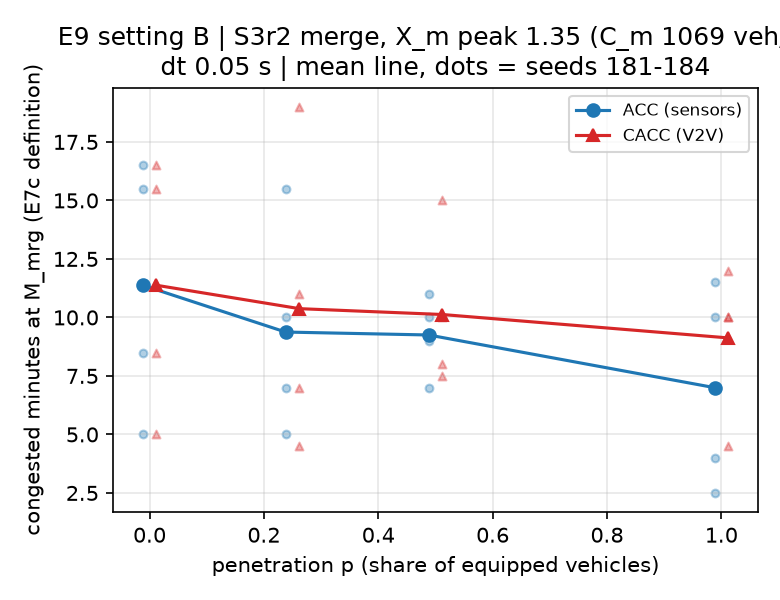
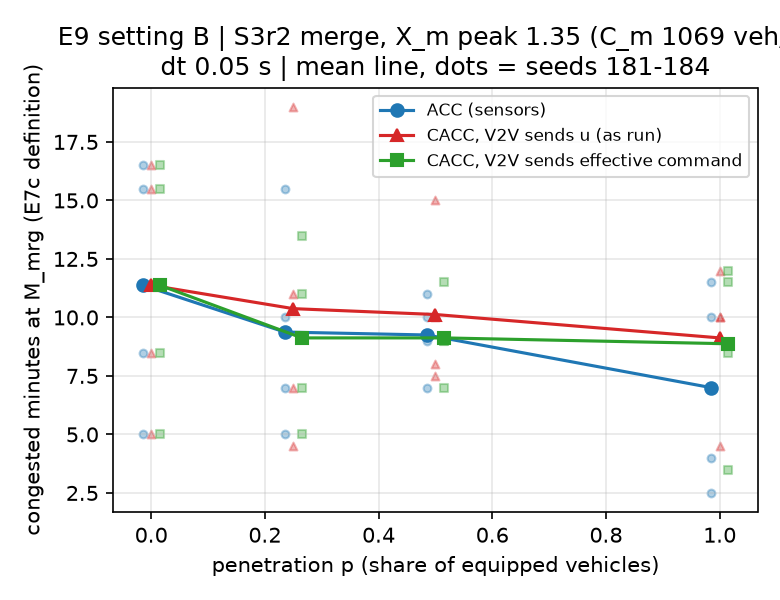
cav: broadcast = effective (V2V sends min(u, applied)); E9e X 1.35 cacc_eff result and a_l diagnostic

diff --git a/src/tmc/setting_b.py b/src/tmc/setting_b.py
@@ -3,7 +3,10 @@
     python -m tmc.setting_b --quick          # small example: X 1.35, seed 181, human vs ACC p = 1 (~2 runs)
     python -m tmc.setting_b --dtcheck        # D3: human and ACC p = 1 at dt 0.05 vs 0.1 (X 1.35, seed 181)
     python -m tmc.setting_b --run 1.35       # every case at one X_peak, seeds 181-184 (appends to E9B_runs.csv)
+    python -m tmc.setting_b --run 1.20 --with-eff   # ... plus CACC with the effective-command broadcast
+    python -m tmc.setting_b --run-eff 1.35   # only the effective-broadcast CACC cases (mode "cacc_eff")
     python -m tmc.setting_b --holdout 1.35 acc 1.0   # one case + the human baseline on held-out seeds 185-188
+    python -m tmc.setting_b --holdout 1.35 all       # every case on the held-out seeds
     python -m tmc.setting_b --judge          # judgement + figures from results/E9B_runs.csv (no simulation)
     dt is 0.05 s for all of setting B (D3 failed on S3r); --dt X overrides it for diagnostics only
 
@@ -49,6 +52,9 @@ HOLDOUT = [185, 186, 187, 188]
 X_PEAKS = [1.35, 1.20]                      # D5 order: 1.35 first
 PENETRATIONS = [0.25, 0.5, 1.0]
 CASES = [("human", 0.0)] + [(m, p) for p in PENETRATIONS for m in ("acc", "cacc")]
+# CACC with the effective-command broadcast (team decision 2026-11-25 after the X 1.35 as-run result, E9e);
+# the as-run "cacc" rows (broadcast = command) are kept and reported.
+EFF_CASES = [("cacc_eff", p) for p in PENETRATIONS]
 TAU_S, DELAY_S = 0.1, 0.15                  # nominal (design record section 7); tau = 0.5 s cut (E9e D5)
 BETTER_PCT, SEEDS_NEEDED = 2.0, 3           # E7c "better" rule
 THROUGHPUT_PCT = 2.0
@@ -67,7 +73,7 @@ def merge_capacity_s3r(share: float = RAMP_SHARE) -> float:
 
 
 def build_config(x_peak: float, seed: int, c_m: float, mode: str = "human", p: float = 0.0,
-                 dt: float = DT_B) -> ScenarioConfig:
+                 dt: float = DT_B, broadcast: str = "command") -> ScenarioConfig:
     cfg = ScenarioConfig.from_yaml(S3R)
     cfg.seed = seed
     cfg.ramp.seed = None
@@ -79,6 +85,8 @@ def build_config(x_peak: float, seed: int, c_m: float, mode: str = "human", p: f
     cfg.control = None
     cfg.cav = None if mode == "human" else {"p_equipped": p, "mode": mode, "placement_seed": seed,
                                             "tau_s": TAU_S, "delay_s": DELAY_S}
+    if mode == "cacc" and broadcast != "command":
+        cfg.cav["broadcast"] = broadcast
     cfg.scenario_id = f"E9B_Xp{x_peak:.2f}_{mode}_p{p:.2f}"
     cfg.demand_id = f"D9B_Xp{x_peak:.2f}_r{RAMP_SHARE:.2f}_Cm{c_m:.0f}"
     return cfg
@@ -99,8 +107,11 @@ def merge_discharge(obs: pd.DataFrame, cong_mrg: pd.DataFrame) -> float:
 
 
 def run_case(args) -> dict:
-    x_peak, mode, p, seed, c_m, dt = args
-    cfg = build_config(x_peak, seed, c_m, mode, p, dt)
+    x_peak, mode, p, seed, c_m, dt, *rest = args
+    broadcast = rest[0] if rest else "command"
+    if mode == "cacc_eff":                          # CACC with broadcast = 'effective' (E9e, 2026-11-25)
+        mode, broadcast = "cacc", "effective"
+    cfg = build_config(x_peak, seed, c_m, mode, p, dt, broadcast)
     prm = load_params(cfg.param_set)
     cap = capacity(prm)
     v_c, occ_c = cap["v_c_mps"], critical_occupancy(cap, prm)
@@ -114,7 +125,8 @@ def run_case(args) -> dict:
     speeds = {d: o.loc[o["sensor_id"] == d, "mean_speed_mps"].dropna() for d in ("M_up", "M_mrg")}
     ev = res.cav_events
     row = {
-        "x_peak": x_peak, "mode": mode, "p": p, "seed": seed, "dt_s": dt, "c_m_vph": c_m,
+        "x_peak": x_peak, "mode": "cacc_eff" if broadcast == "effective" else mode, "p": p, "seed": seed,
+        "dt_s": dt, "c_m_vph": c_m, "broadcast": broadcast if mode == "cacc" else "",
         "n_vehicles": int(len(v)), "n_equipped": int(v["equipped"].sum()),
         "ttt_veh_h": s["total_travel_time_veh_h"],
         "ttt_main_origin_veh_h": s["total_travel_time_mainline_origin_veh_h"],
@@ -166,10 +178,10 @@ def better(df: pd.DataFrame, a: tuple, b: tuple) -> dict:
             "n_seeds_lower": n_lower, "better": bool(pct <= -BETTER_PCT and n_lower >= SEEDS_NEEDED)}
 
 
-def d1_reduced(df: pd.DataFrame, p: float) -> dict:
+def d1_reduced(df: pd.DataFrame, p: float, mode: str = "cacc") -> dict:
     """E9e D1: CACC congested minutes at M_mrg vs the same-seed human AND ACC run."""
-    h = _paired(df, ("cacc", p), ("human", 0.0), "congested_min_M_mrg")
-    a = _paired(df, ("cacc", p), ("acc", p), "congested_min_M_mrg")
+    h = _paired(df, (mode, p), ("human", 0.0), "congested_min_M_mrg")
+    a = _paired(df, (mode, p), ("acc", p), "congested_min_M_mrg")
     ok = []
     for seed in h.index.intersection(a.index):
         c = h.loc[seed, "a"]
@@ -206,7 +218,7 @@ def judge(df: pd.DataFrame) -> pd.DataFrame:
     for (x, dt), g in df.groupby(["x_peak", "dt_s"]):
         hum = g[g["mode"] == "human"]
         served_h = hum["served_600_2100_vph"].mean()
-        for mode, p in CASES[1:]:
+        for mode, p in CASES[1:] + EFF_CASES:
             c = g[(g["mode"] == mode) & np.isclose(g["p"], p)]
             if c.empty:
                 continue
@@ -220,12 +232,12 @@ def judge(df: pd.DataFrame) -> pd.DataFrame:
             row["congested_min_M_mrg_human"] = hum["congested_min_M_mrg"].mean()
             row["merge_discharge_vph"] = c["merge_discharge_vph"].mean()
             row["merge_discharge_human_vph"] = hum["merge_discharge_vph"].mean()
-            if mode == "cacc":
-                va = better(g, ("cacc", p), ("acc", p))
-                vr = better(g, ("acc", p), ("cacc", p))
+            if mode in ("cacc", "cacc_eff"):
+                va = better(g, (mode, p), ("acc", p))
+                vr = better(g, ("acc", p), (mode, p))
                 row.update({"ttt_vs_acc_pct": va.get("ttt_pct"), "seeds_lower_than_acc": va.get("n_seeds_lower"),
                             "cacc_better_than_acc": va.get("better"), "acc_better_than_cacc": vr.get("better")})
-                row.update(d1_reduced(g, p))
+                row.update(d1_reduced(g, p, mode))
             row.update(gaps_ok(g, mode, p))
             out.append(row)
     return pd.DataFrame(out)
@@ -238,7 +250,8 @@ def plot(df: pd.DataFrame) -> list[Path]:
     matplotlib.use("Agg")
     import matplotlib.pyplot as plt
     paths = []
-    style = {"acc": ("ACC (sensors)", "#1f77b4", "o"), "cacc": ("CACC (V2V)", "#d62728", "^")}
+    style = {"acc": ("ACC (sensors)", "#1f77b4", "o"), "cacc": ("CACC, V2V sends u (as run)", "#d62728", "^"),
+             "cacc_eff": ("CACC, V2V sends effective command", "#2ca02c", "s")}
     for col, ylab, name in [("ttt_veh_h", "total travel time (veh*h, incl. ramp wait)", "E9B_ttt_vs_p.png"),
                             ("congested_min_M_mrg", "congested minutes at M_mrg (E7c definition)",
                              "E9B_congestion_vs_p.png")]:
@@ -250,7 +263,7 @@ def plot(df: pd.DataFrame) -> list[Path]:
             for mode, (lab, color, mk) in style.items():
                 pts = [(0.0, h)] + [(p, g[(g["mode"] == mode) & np.isclose(g["p"], p)][col]) for p in PENETRATIONS]
                 pts = [(p, s) for p, s in pts if len(s)]
-                off = -0.012 if mode == "acc" else 0.012
+                off = {"acc": -0.015, "cacc": 0.0, "cacc_eff": 0.015}[mode]
                 for p, s in pts:
                     ax.scatter(np.full(len(s), p + off), s, color=color, alpha=0.35, s=14, marker=mk)
                 ax.plot([p + off for p, _ in pts], [s.mean() for _, s in pts], color=color, marker=mk, label=lab)
@@ -318,11 +331,19 @@ def main(argv: list[str]) -> None:
         return
     if "--run" in argv:
         x = float(argv[argv.index("--run") + 1])
-        df = _append(sweep(jobs_for(x, SEEDS, c_m, dt)), RUNS_CSV)
+        cases = CASES + EFF_CASES if "--with-eff" in argv else CASES
+        df = _append(sweep(jobs_for(x, SEEDS, c_m, dt, cases)), RUNS_CSV)
+    elif "--run-eff" in argv:
+        x = float(argv[argv.index("--run-eff") + 1])
+        df = _append(sweep(jobs_for(x, SEEDS, c_m, dt, EFF_CASES)), RUNS_CSV)
     elif "--holdout" in argv:
         i = argv.index("--holdout")
-        x, mode, p = float(argv[i + 1]), argv[i + 2], float(argv[i + 3])
-        cases = [("human", 0.0), (mode, p)] + ([("acc", p)] if mode == "cacc" else [])
+        x, mode = float(argv[i + 1]), argv[i + 2]
+        if mode == "all":                       # every case incl. cacc_eff (confirms all wins at once)
+            cases = CASES + EFF_CASES
+        else:
+            p = float(argv[i + 3])
+            cases = [("human", 0.0), (mode, p)] + ([("acc", p)] if mode in ("cacc", "cacc_eff") else [])
         hd = sweep(jobs_for(x, HOLDOUT, c_m, dt, cases))
         path = RES / "E9B_holdout_runs.csv"
         hd = _append(hd, path)
@@ -332,7 +353,7 @@ def main(argv: list[str]) -> None:
         return
     else:
         df = pd.read_csv(RUNS_CSV)
-    if "--judge" in argv or "--run" in argv:
+    if "--judge" in argv or "--run" in argv or "--run-eff" in argv:
         jd = judge(df)
         jd.to_csv(RES / "E9B_judgement.csv", index=False)
         print(jd.round(3).T.to_string())

diff --git a/src/tmc/network.py b/src/tmc/network.py
@@ -627,6 +627,9 @@ class FreewaySegment:
         """cav config keys: p_equipped (0-1), mode ('acc' | 'cacc'), placement_seed, tau_s (0.1),
         delay_s (0.15), loss_prob (0), loss_seed, outages ([[start_s, end_s], ...]), comms (True),
         max_age_ticks (5; null = no age limit, the E9 mechanism check with fallback disabled),
+        broadcast ('command' = the controller's car-following command u, E9c and E9e as run | 'effective' =
+        min(u, the other demands applied on top: lane end, gap seeking, courtesy, yielding), team decision
+        2026-11-25, E9e; identical to 'command' when no other demand binds, e.g. everywhere in setting A),
         controller ('eq1126' = the E9 ACC/CACC of tmc.cav, default | 'ploeg' = tmc.ploeg, E9d, setting A only)
         with, for 'ploeg': ff ('none' | 'sensor' | 'v2v'), spacing ('ctg' | 'idm'), h_s (1.0), r_m (2.0).
         For 'ploeg' the V2V channel exists iff ff = 'v2v'; mode is ignored.
@@ -653,6 +656,9 @@ class FreewaySegment:
             raise ValueError(f"cav.controller must be 'eq1126' or 'ploeg', got {self.cav_controller!r}")
         if self.cav_mode not in ("acc", "cacc"):
             raise ValueError(f"cav.mode must be 'acc' or 'cacc', got {self.cav_mode!r}")
+        self.cav_broadcast = str(c.get("broadcast", "command"))
+        if self.cav_broadcast not in ("command", "effective"):
+            raise ValueError(f"cav.broadcast must be 'command' or 'effective', got {self.cav_broadcast!r}")
         self.cav_tau = float(c.get("tau_s", 0.1))
         self.cav_max_age = c.get("max_age_ticks", 5)
         spt = int(round(TICK_S / self.cfg.dt_s))
@@ -698,6 +704,24 @@ class FreewaySegment:
                                   bool(self.equipped[leader]) if leader is not None else False)
                 if self.channel is not None:
                     self.channel.send(vid, tick, out["u"])
+
+    def _amend_broadcasts(self, tick: int, accs, acc_r) -> None:
+        """broadcast = 'effective' (E9e): once this tick's applied accelerations are known, an equipped
+        vehicle whose applied acceleration is below its realized controller output (another demand bound
+        it: lane end, gap seeking, courtesy, yielding) amends this tick's message to min(u, applied), the
+        acceleration it is actually commanded to follow. With delay >= 1 tick no follower has used the
+        message yet. (A 0-tick delay would see the unamended u; it is used only in setting A, where no
+        other demand exists.)"""
+        for ln, acc in [*zip(self.lanes, accs), (self.rlane, acc_r)]:
+            for i, vid in enumerate(ln.ids):
+                vid = int(vid)
+                ctl = self.ctl.get(vid)
+                a_r = self._a_real.get(vid)
+                if ctl is None or a_r is None or not acc[i] < a_r - 1e-12:
+                    continue
+                u_eff = min(float(ctl.u), float(acc[i]))
+                if u_eff < ctl.u:
+                    self.channel.amend(vid, tick, u_eff)
 
     def _cav_actuate(self, dt: float) -> None:
         """Advance every on-road controller's actuator lag by one step (realized accelerations)."""
@@ -937,6 +961,9 @@ class FreewaySegment:
                 if g <= 0:
                     raise RuntimeError(f"collision/overlap at t={t:.2f}s (min gap {g:.3f} m)")
             self._track_gaps(accs, acc_r, gaps, s_r)
+            if self._cav_on and self.channel is not None and self.cav_broadcast == "effective" \
+                    and k % self._spt == 0:
+                self._amend_broadcasts(k // self._spt, accs, acc_r)
             # 4) record state at t
             if k % rec_every == 0:
                 for lane_id, ln, acc in [*((i, ln, a) for i, (ln, a) in enumerate(zip(self.lanes, accs))),

diff --git a/tests/test_cav_integration.py b/tests/test_cav_integration.py
@@ -160,3 +160,58 @@ def test_time_step_sensitivity_with_cavs(mode):
 def test_dt_must_divide_tick():
     with pytest.raises(ValueError):
         run_platoon(dict(S, duration_s=1.0), NOM, 0.0, dt=0.2, cav=cav(1.0))
+
+
+# --------------------------------------------------------------------------- broadcast = 'effective' (E9e, 2026-11-25)
+
+def test_effective_broadcast_is_identical_in_setting_a():
+    """No lane-end / courtesy / gap-seeking demand in setting A, so nothing is ever amended."""
+    for p_eq in (0.5, 1.0):
+        a, _ = run_platoon(S, NOM, T_R, cav=cav(p_eq, "cacc"))
+        b, _ = run_platoon(S, NOM, T_R, cav=cav(p_eq, "cacc", broadcast="effective"))
+        assert np.array_equal(traj(a), traj(b))
+
+
+def test_channel_amend_replaces_only_this_ticks_message():
+    ch = cavmod.V2VChannel(delay_s=0.15)
+    ch.send(7, 10, 1.0)
+    assert not ch.amend(7, 9, -3.0)                    # not the newest tick
+    assert ch.amend(7, 10, -2.0)
+    assert ch.latest(7, 12, 0) == (-2.0, 10)
+    lossy = cavmod.V2VChannel(delay_s=0.15, outages=[(0.0, 10.0)])
+    lossy.send(7, 10, 1.0)                              # lost in the outage
+    assert not lossy.amend(7, 10, -2.0) and lossy.latest(7, 12, 0) is None
+
+
+def test_effective_broadcast_sends_min_of_command_and_applied_at_the_merge():
+    """S3r2 merge, all equipped: after each tick, every equipped vehicle's message equals its command u,
+    or min(u, applied acceleration) when another demand (lane end, gap seeking, courtesy) bound it."""
+    checked = {"bound": 0, "free": 0}
+
+    class Spy(FreewaySegment):
+        def _amend_broadcasts(self, tick, accs, acc_r):
+            super()._amend_broadcasts(tick, accs, acc_r)
+            for ln, acc in [*zip(self.lanes, accs), (self.rlane, acc_r)]:
+                for i, vid in enumerate(ln.ids):
+                    ctl, a_r = self.ctl.get(int(vid)), self._a_real.get(int(vid))
+                    q = self.channel._q.get(int(vid))
+                    if ctl is None or a_r is None or not q or q[-1][0] != tick:
+                        continue
+                    bound = acc[i] < a_r - 1e-12
+                    want = min(ctl.u, float(acc[i])) if bound else ctl.u
+                    assert q[-1][2] == pytest.approx(want, abs=1e-12)
+                    checked["bound" if bound and want < ctl.u else "free"] += 1
+
+    c = ScenarioConfig.from_yaml(ROOT / "configs" / "scenario_s3r2_onramp_zipgap_tr06_restart.yaml")
+    c.max_time_s = 400.0
+    c.cav = cav(1.0, "cacc", broadcast="effective")
+    res = Spy(P, c).run()
+    assert checked["bound"] > 0 and checked["free"] > 0
+    assert res.min_gap_m > 0
+
+
+def test_broadcast_rejects_unknown_values():
+    c = ScenarioConfig.from_yaml(ROOT / "configs" / "scenario_s3r2_onramp_zipgap_tr06_restart.yaml")
+    c.cav = cav(1.0, "cacc", broadcast="sometimes")
+    with pytest.raises(ValueError):
+        FreewaySegment(P, c)

diff --git a/src/tmc/cav.py b/src/tmc/cav.py
@@ -150,6 +150,16 @@ class V2VChannel:
         while len(q) > 64:
             q.popleft()
 
+    def amend(self, sender: int, tick: int, value: float) -> bool:
+        """Replace the value of `sender`'s message sent at `tick` (same tick, before anyone can use it at a
+        delay >= 1 tick). Used for broadcast = 'effective' (E9e). A lost message stays lost. Returns True if
+        a message was amended."""
+        q = self._q.get(sender)
+        if not q or q[-1][0] != tick:
+            return False
+        q[-1] = (tick, q[-1][1], value)
+        return True
+
     def latest(self, sender: int, now_tick: int, since_tick: int) -> tuple[float, int] | None:
         """Newest message from `sender` usable at now_tick and sent at or after since_tick: (value, send_tick)."""
         for send_tick, usable, value in reversed(self._q.get(sender, ())):

diff --git a/docs/experiment_log.md b/docs/experiment_log.md
@@ -389,3 +389,8 @@ Single lane (S1 demand) for comparison: gap seeking changes outflow by < 3% (147
   - Throughput preserved everywhere (served +0 to +1.5%). D1 "disturbance reduced" fails at every p (0 of 4 seeds). **"ACC better than CACC" passes the TTT rule at every p**, against prediction 3 (null).
   - Gaps (D2 as amended): fail in 22 of 24 CAV runs. Almost all are at the merge-model floor: CAV minima 0.786-0.83 m vs same-seed human minima 0.790-0.800 m, at merge events whose sequence differs between runs. The exception is CACC p = 1.0, seed 182: net gap 0.337 m on the ramp lane and equipped deceleration 4.015 m/s^2 (> 4, absolute). Human maximum deceleration 4.0-6.5 m/s^2 (reported, not judged).
 - **Investigation (the registered "what would change the conclusion" rule: a CACC-vs-ACC difference must be investigated before interpreting):** on CACC p = 1.0, seed 182, 1.7% of equipped-vehicle ticks broadcast a command u more than 1 m/s^2 above the vehicle's applied acceleration (mean excess 2.0, max 2.5 m/s^2). 97% of these are ramp vehicles in the acceleration lane (x 1450-1750 m). Cause: the V2V message is the controller's car-following command u, but the lane-end, gap-seeking, courtesy and yielding demands are applied on top as a min (design record section 7 implementation note), so a ramp vehicle braking for the lane end or for a gap broadcasts "accelerating". Its CACC followers plan with a leader acceleration ~2 m/s^2 too high; ACC estimates the realized motion and is not misled. Setting A has no such demands, so this is consistent with E9c (CACC = ACC there). **The as-run CACC result therefore measures a message-content mismatch, not the value of communication.** Interpretation is paused until the team decides how to treat it.
+- **Team decision (Donovan, 2026-11-25): fix the message and keep the as-run result.** New `cav:` option `broadcast: effective` (`src/tmc/network.py` `_amend_broadcasts`, `V2VChannel.amend`): after each tick's applied accelerations are known, an equipped vehicle whose applied acceleration is below its controller output (another demand bound it) amends that tick's message to min(u, applied), i.e. the acceleration it is actually commanded to follow (Ploeg et al. 2011's u). Default `command` keeps E9c and the as-run B results reproducible. Tests (`tests/test_cav_integration.py`): setting A trajectories bit-identical (no other demands there); on the S3r2 merge every message equals u or min(u, applied) as specified; amending a lost message is impossible. The fixed CACC is run as mode `cacc_eff` (seeds 181-184), and both are reported: `cacc` (as run) is a finding about message content, `cacc_eff` is the registered communication test. Human, ACC and the judgement rules are unchanged.
+  - *Prediction for `cacc_eff` (written before running):* the null of prediction 3 returns: mean TTT within 2% of ACC and neither "better" in both directions (residual differences of both signs from divergence); D1 fails; the 0.34 m / 4.015 m/s^2 event of CACC p = 1.0, seed 182 does not recur (equipped deceleration <= 4 m/s^2 in every run).
+- **Result, `cacc_eff` at X 1.35 (seeds 181-184):** TTT 24.55 / 24.34 / 23.67 veh*h at p = 0.25 / 0.5 / 1.0 (vs human -14.3 / -15.0 / -17.4%, better by the rule at every p). **vs ACC: +1.2% (2/4 seeds lower), +0.5% (2/4), +7.7% (0/4)**: null at p = 0.25 and 0.5, as predicted; at p = 1.0 ACC is still better by the rule (per seed +15 / +2 / +6.5 / +7.3%; merge discharge ~1230 vs ~1320 veh/h). D1 fails at every p. The 0.34 m / 4.015 m/s^2 event is gone (seed 182: 0.81 m, 3.36 m/s^2); equipped max deceleration <= 3.70 m/s^2 in every run. Gaps (D2) still fail in 8 of 12 runs, all at the merge floor (0.79-0.80 m vs human 0.79-0.80 m).
+  - *Against the cacc_eff prediction:* held at p = 0.25 and 0.5 and for the deceleration event; FAILED at p = 1.0.
+  - *Diagnostic of the p = 1.0 difference (X 1.35, seed 181, every 0.1 s tick; error = controller's a_l minus the leader's applied acceleration):* CACC's input is MORE accurate than ACC's everywhere. Mainline settled: MAE 0.004 vs 0.009 m/s^2; mainline < 3 s after a leader change: 0.018 vs 0.030; ramp lane: 0.030 vs 0.29, where ACC's lagged estimate is biased high (+0.27 m/s^2: the ramp leader is braking for the lane end or a gap while ACC still sees it speeding up). So at p = 1.0 the controller with better information produces the lower merge discharge. *Hypothesis, not tested:* ACC's optimistic estimate on the ramp makes ramp followers less cautious, so ramp platoons arrive tighter and merge more per minute; CACC, knowing the leader brakes, keeps more distance. If so, the p = 1.0 difference is a property of Eq. 11.26 at a merge, not a communication defect, and it is not a safety gain either (both meet the 4 m/s^2 limit).
